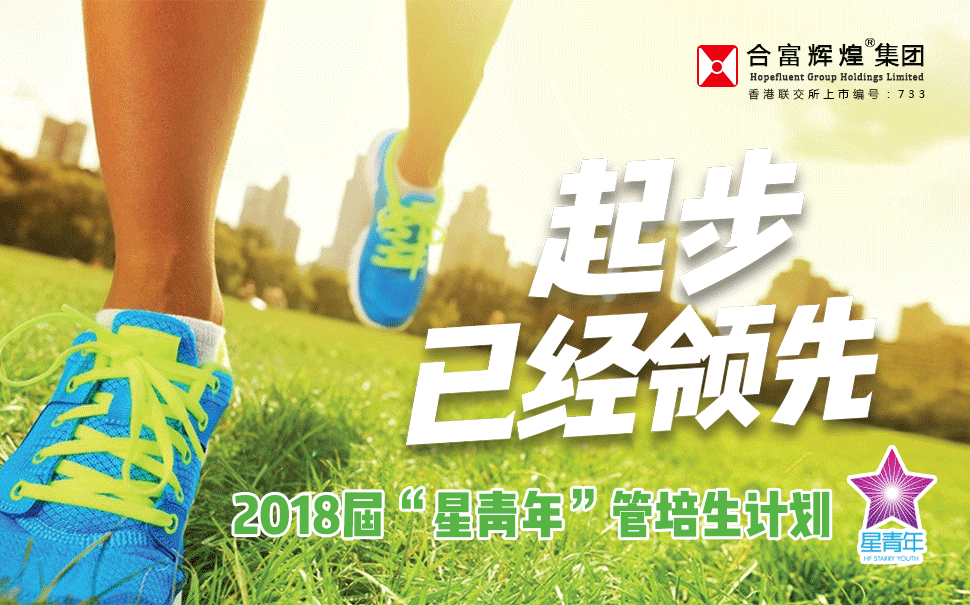
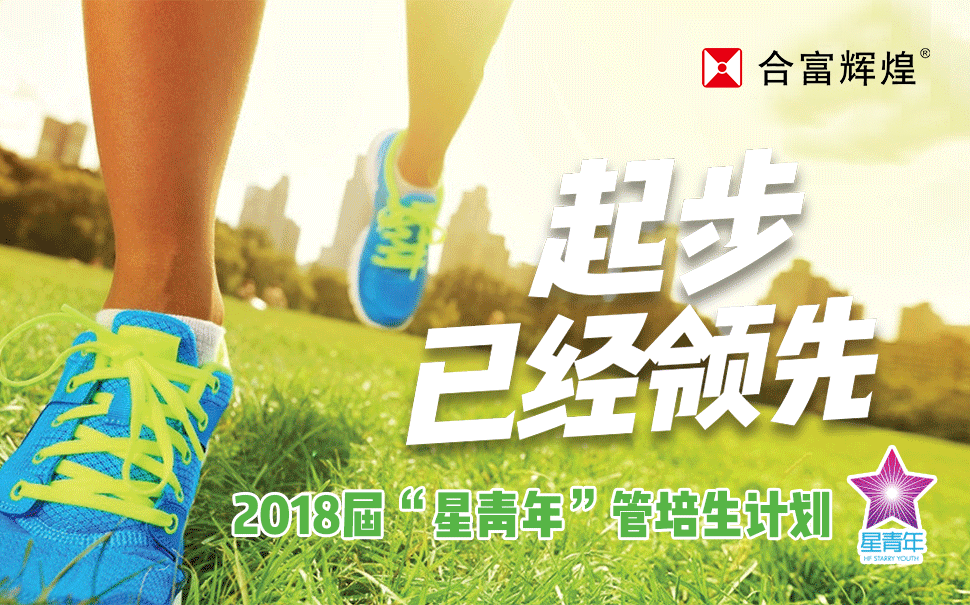
modify

Changed region(s): [[0.7113, 0.0, 0.9588, 0.238]]

diff --git a/css.css b/css.css
@@ -2,15 +2,15 @@
 /* CSS Document */
 /*CSS重置*/
 body,div,dl,dt,dd,ul,ol,li,h1,h2,h3,h4,h5,h6,pre,code,form,fieldset,legend,input,button,textarea,p,blockquote,th,td { margin:0; padding:0; }
-body { background:#fff; color:#555; font-size:14px; font-family:"Microsoft Yahei"!important;   _font-family: SimHei, sans-serif;   font-family: Verdana, Arial, Helvetica, sans-serif; }
-td,th,caption { font-size:14px; }
+body { background:#fff; color:#555; font-size:1em; font-family:"Microsoft Yahei"!important;   _font-family: SimHei, sans-serif;   font-family: Verdana, Arial, Helvetica, sans-serif; }
+td,th,caption { font-size:1em; }
 h1, h2, h3, h4, h5, h6 { font-weight:normal; font-size:100%; }
 address, caption, cite, code, dfn, em, strong, th, var { font-style:normal; font-weight:normal;}
 a { color:#555; text-decoration:none; }
 a:hover { text-decoration:none; }
 img { border:none; }
 ol,ul,li { list-style:none; }
-input, textarea, select, button { font:14px Verdana,Helvetica,Arial,sans-serif; }
+input, textarea, select, button { font:1em Verdana,Helvetica,Arial,sans-serif; }
 table {  border-bottom:solid 1px #fff; }
 html {overflow-y: scroll;} 
 /* css common */
@@ -30,13 +30,13 @@ body {
 	margin-right: 0px;
 	margin-bottom: 0px;
 	background-color: #F2F2F2;
-	font-size:14px;
+	font-size:1em;
 	color:#333333;
-	line-height:24px;
+	line-height:34px;
 	font-family:"微软雅黑";font-family:"Microsoft Yahei";
 }
 
-.right_tips{ position:fixed; top:430px; margin-left:956px; z-index: 99}
+.right_tips{ position:fixed; top:700px; margin-left:956px; z-index: 99}
 .orange_title {
   font-size: 2.2em;
   color: orange;
@@ -55,7 +55,7 @@ body {
 .main_img,
 .contain{ width:980px; margin:0 auto; height:auto; background-color:#FFF!important}
 
-.footer{ width:100%; background-color:#003264; color:#FFF; line-height:24px; font-size:12px; text-align:center; padding:10px 0;}
+.footer{ width:100%; background-color:#003264; color:#FFF; line-height:24px; font-size:1em; text-align:center; padding:10px 0;}
 
 
 .clear{ width:100%; clear:both; height:10px;}
@@ -74,7 +74,7 @@ h5{ font-size:16px; font-weight: bold; margin:0; }
 .contain  .detial{ float:right; width:770px;height:auto; padding-right:60px;}
 .contain  .detial  .img_r{ float:right; margin-left:20px;}
 /*.contain  .detial  p{ text-indent:2em}*/
-.contain  .detial  .job_box{ background-color:#efefef; width:485px; height:auto; float:left; color:#333; font-size:14px; line-height:30px; padding:15px;
+.contain  .detial  .job_box{ background-color:#efefef; width:485px; height:auto; float:left; color:#333; font-size:1em; line-height:30px; padding:15px;
   -moz-border-radius: 15px; /* Firefox */
   -webkit-border-radius: 15px; /* Safari 和 Chrome */
   border-radius: 15px; /* Opera 10.5+, 以及使用了IE-CSS3的IE浏览器 */

diff --git a/index.html b/index.html
@@ -2,7 +2,7 @@
 <html xmlns="http://www.w3.org/1999/xhtml">
 <head>
   <meta http-equiv="Content-Type" content="text/html; charset=utf-8" />
-  <title>合富辉煌集团2018届校园招聘</title>
+  <title>合富辉煌2018届校园招聘</title>
 
   <link href="css.css" rel="stylesheet" type="text/css" />
 </head>
@@ -44,12 +44,9 @@
           <p><span class="orange_title">"星青年"</span>管培生计划是合富辉煌人才战略重要项目，旨在精准培养技能全面、经验丰富的未来地产领袖。目前已成功举办六届，配样两百多名应届毕业生，令其充分融入企业、锤炼专业，成为独当一面的地产经理人。</p>
           <p>&nbsp;&nbsp;“星青年”管培生项目在"2016CSTD企业学习设计大赛"中，获得了"学习设计优胜奖"和"最具人气奖"两项大奖，是房地产营销领域唯一获奖单位。</p>
         </div>
-        <br>
-    <div class="clear"></div>
-    <br>
-		<div style="padding-left:60px;padding-right:60px;">
-    <div style="text-align: center; margin-bottom: 12px;">
-      <p style="font-size:30px; line-height:30px;display:inline-block;"><b>合富辉煌2018届校园宣讲会排期表</b></p>
+	<div style="padding-left:60px;padding-right:60px;">
+    <div style="text-align: center;">
+		<h3>合富辉煌2018届校园宣讲会排期表</h3>
     </div>
 		<table width="100%" border="0" cellpadding="0" cellspacing="1" bgcolor="#CCCCCC">
             <tr bgcolor="#FDF8EC">
